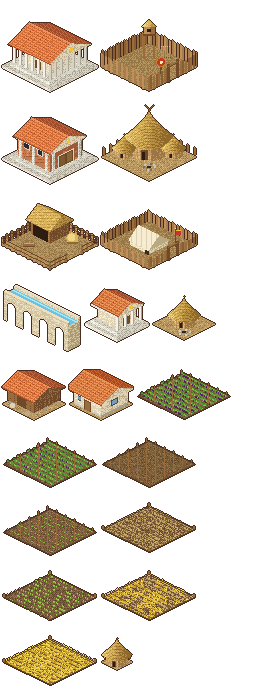
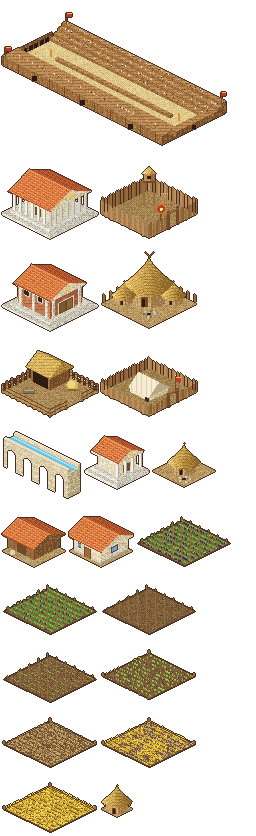
Add the Circus Maximus: a big wooden racecourse standing near Roma from the start
A 10x4 landmark: sand track with a spine and turning posts, tiered timber
stands with spectators, starting gates and flags. It is placed on the nearest
open ground (clearing woods, draining marsh and levelling), and is not in the
build bar.

diff --git a/docs/DESIGN.md b/docs/DESIGN.md
@@ -150,6 +150,7 @@ era gating of buildings comes first.
 
 - **Latin lettering:** capitals only, V for U (IMPERIVM). Text goes through `Latin.t()`; English
   glosses live next to the Latin (see `latin.gd`, `hud.gd`).
+- **Circus Maximus:** a landmark (`Defs.BUILDINGS["circus"]`, `landmark: true`, so it isn't in the build bar) that stands near Roma from the start, 10x4 tiles: a sand track with a low spine and turning posts, tiered timber stands with spectators down both sides, starting gates at the far end. Tradition has Tarquinius Priscus (the fifth king, c. 600 BC) laying it out in the valley between the Palatine and the Aventine, with wooden seats (the stone circus is much later), and the valley was marshy before the Cloaca Maxima drained it. So the game puts it on the nearest open ground it can find (`_place_circus`), felling woods, draining marsh and levelling the ground under it. It has no function yet; races are the obvious thing to add.
 - **The world:** 240 x 240 tiles, nine times the old map: a 3 x 3 grid of 80-tile blocks (`GameMap.BLOCK`, `WORLD_BLOCKS`). The middle block is the Tiber lowland where Rome starts (a basin of water and marsh with the marsh mostly confined to it); the eight around it differ in character by how much higher the land stands and how wet it is (`BLOCK_ELEVATION`, `BLOCK_MOISTURE`: hillier and drier to the north, wooded and wet to the north-east and south-east, drier meadow to the west and south), blended smoothly so there are no seams. Mines and berry patches are scattered over the whole world. The minimap is a flat top-down square.
 - **Staying fast on a big map:** nothing off the screen is built, animated or redrawn. Scenery (trees, reeds, hills, mines) is built in 12-tile chunks only near the screen and dropped when well away (`World._stream_terrain`); units and buildings off the screen skip their view updates; the "hidden behind scenery" pixel tests run a few times a second per unit, not every frame; the fog only touches the tiles whose state changed and does nothing when nothing moved (`Fog.update`); the ground, terraces and fog are shaders that cost only for the pixels on screen. Map generation uses fast separable blurs and takes under a second. `--perf` prints where each frame's time goes after 400 frames (`perf.gd`), and `--pan=x,y` scrolls steadily that way to test streaming. On the dev machine the stationary game averages about 10 ms a frame with no hitches.
 - **Roma and the marsh:** the first city is called **Roma** (`CITY_NAMES`), and the start is chosen beside a marsh when the map has one (`GameMap.find_start`), because the founding legend has the twins left on the marshy bank of the Tiber and the Forum valley was a swamp until it was drained (traditionally under Tarquinius Priscus, c. 600 BC). Marsh (`Terrain.MARSH`, about 7% of the map) is low, wet ground just above the shore, with pools of standing water and reeds: it is walkable but slow (cost 2.0), and nothing can be built on it. Reaching Era II drains the marsh within 14 tiles of the city (the Cloaca Maxima), turning it into grass; marsh farther away stays. The other city names (Ostia, Veii, ...) are for later cities.

diff --git a/docs/LATIN.md b/docs/LATIN.md
@@ -36,6 +36,7 @@ Some buildings change name and picture between eras (`"early"` entry in `Defs.BU
 | Arx → Castra | Citadel → Barracks | a stockaded hilltop fortress, then the palisaded legionary camp. Trains Miles Gravis. *Arx* is a real term for Rome's citadel; using it for the Kingdom-era barracks is the game's choice |
 | Stabulum | Stable | trains Eques. *Stabulum* is the ordinary Latin word; as a military building it is a gameplay invention |
 | Aedes (Vestae) → Templum | Shrine of Vesta → Temple | Vesta's shrine was a round thatched hut with an eternal fire. Prestige only for now |
+| Circus Maximus | The Great Circus | the chariot racecourse, a landmark that stands from the start (not built by the player). *Circus* is a ring or circle; *maximus* is "greatest" |
 | Domus | House | stone house, Era II |
 | Vinea | Vineyard | Era II; wine is sold for gold |
 | Curia | Senate house | Era II; prestige only for now |
